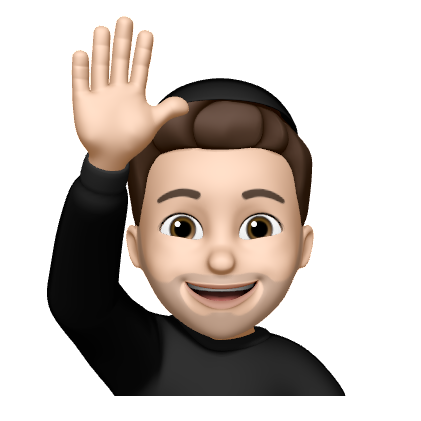
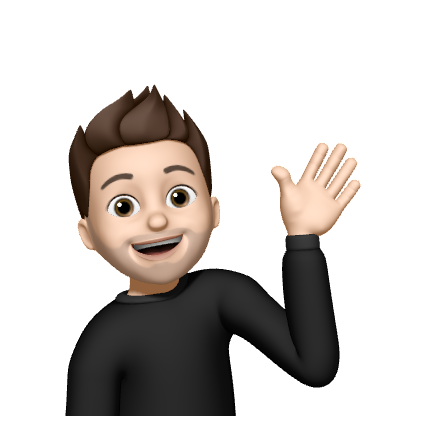
Memoji contact & js setModal

diff --git a/code/assets/scss/__home.scss b/code/assets/scss/__home.scss
@@ -24,10 +24,23 @@ html {
                             border-radius: 100%;
                             height: 250px;
                             width: 250px;
+                            align-items: center;
+                            overflow: hidden;
+                            box-shadow: inset 7px 7px 20px #3d3a5f, inset -7px -7px 20px #59568b;
+
+                            &:hover {
+                                img {
+                                    //animation: .5s animoji 1;
+                                    filter: drop-shadow(16px -30px 5px #00000040);
+                                }
+                            }
         
                             img {
-                                width: 100%;
-                                height: 100%;
+                                height: 250px;
+                                width: 250px;
+                                border-radius: 100%;
+                                filter: drop-shadow(6px -20px 5px #00000040);
+                                //transition: 300ms;
                             }
                         }
         
@@ -100,8 +113,35 @@ html {
                     }
 
                     &.contact {
-                        form {
-                            margin: 0;
+                        .form-container {
+                            display: flex;
+                            align-items: center;
+                            justify-content: center;
+                            width: 100%;
+
+                            .img-container {
+                                position: relative;
+                                margin-right: 5px;
+
+                                img {
+                                    height: 150px;
+                                    width: 150px;
+                                }
+
+                                .bar {
+                                    height: 1px;
+                                    width: 100%;
+                                    box-shadow: 0 3px 20px 1px black;
+                                    position: absolute;
+                                    bottom: 4px;
+                                    background: radial-gradient(circle, rgba(0,0,0,1) 50%, rgba(75,72,117,1) 100%);
+                                }
+                            }
+
+                            form {
+                                margin: 0;
+                                margin-left: 5px;
+                            }
                         }
                     }
                 }

diff --git a/code/assets/css/__mixin.css b/code/assets/css/__mixin.css
@@ -278,7 +278,7 @@ form .form-space-between a:hover {
 }
 
 .modal-background {
-  height: 100%;
+  min-height: 100%;
   left: 0;
   width: 100%;
   position: absolute;
@@ -560,10 +560,18 @@ html body main.home section.top-section .card {
   border-radius: 100%;
   height: 250px;
   width: 250px;
+  align-items: center;
+  overflow: hidden;
+  box-shadow: inset 7px 7px 20px #3d3a5f, inset -7px -7px 20px #59568b;
+}
+html body main.home section.top-section .card:hover img {
+  filter: drop-shadow(16px -30px 5px #00000040);
 }
 html body main.home section.top-section .card img {
-  width: 100%;
-  height: 100%;
+  height: 250px;
+  width: 250px;
+  border-radius: 100%;
+  filter: drop-shadow(6px -20px 5px #00000040);
 }
 html body main.home section.top-section h1 {
   margin-bottom: 5px;
@@ -617,8 +625,31 @@ html body main.home section.last-articles a.btn {
   display: flex;
   justify-content: center;
 }
-html body main.home section.contact form {
+html body main.home section.contact .form-container {
+  display: flex;
+  align-items: center;
+  justify-content: center;
+  width: 100%;
+}
+html body main.home section.contact .form-container .img-container {
+  position: relative;
+  margin-right: 5px;
+}
+html body main.home section.contact .form-container .img-container img {
+  height: 150px;
+  width: 150px;
+}
+html body main.home section.contact .form-container .img-container .bar {
+  height: 1px;
+  width: 100%;
+  box-shadow: 0 3px 20px 1px black;
+  position: absolute;
+  bottom: 4px;
+  background: radial-gradient(circle, black 50%, #4b4875 100%);
+}
+html body main.home section.contact .form-container form {
   margin: 0;
+  margin-left: 5px;
 }
 
 @keyframes arrowAnimation {
@@ -647,6 +678,22 @@ html body main.home section.contact form {
   100% {
     bottom: 17%;
     box-shadow: 5px 10px 35px -20px black;
+  }
+}
+@keyframes animoji {
+  0% {
+    transform: rotate(0);
+  }
+  100% {
+    transform: rotate(360deg);
+  }
+}
+@keyframes animojiReverse {
+  0% {
+    transform: rotate(360deg);
+  }
+  100% {
+    transform: rotate(0);
   }
 }
 /*@include _assert-ascending($grid-breakpoints, "$grid-breakpoints");

diff --git a/code/assets/js/app.js b/code/assets/js/app.js
@@ -2,6 +2,32 @@ $(function() {
     const apiUrl = 'http://localhost:8000';
     setLogo();
     isConnected();
+    let cardAnimationRotation = 0;
+    let startInterval;
+    let stopInterval;
+    let mainHeight = $('main').innerHeight();
+
+    $('main.home section.top-section .card').on('mouseenter', function() {
+        clearInterval(stopInterval);
+
+        startInterval = setInterval(() => {
+            if (cardAnimationRotation !== 360) {
+                cardAnimationRotation += 4;
+                $('main.home section.top-section .card img').css('transform', 'rotate(' + cardAnimationRotation + 'deg)');
+            }
+        });
+    });
+
+    $('main.home section.top-section .card').on('mouseleave', function() {
+        clearInterval(startInterval);
+
+        stopInterval = setInterval(() => {
+            if (cardAnimationRotation !== 0) {
+                cardAnimationRotation -= 4;
+                $('main.home section.top-section .card img').css('transform', 'rotate(' + cardAnimationRotation + 'deg)');
+            }
+        });
+    });
 
     function isConnected() {
         $.ajax({
@@ -443,6 +469,11 @@ $(function() {
         }
     //
     
+    function setModalHeight() {
+        $('.modal-background').css('height', mainHeight);
+        $('.modal-background').css('padding-top', $(window).scrollTop());
+    }
+
     function closeModal() {
         $('.modal').removeClass('is-active');
 
@@ -465,6 +496,7 @@ $(function() {
         });
 
         setTimeout(function() {
+            setModalHeight();
             $('.modal').addClass('is-active');
         }, 250);
     }
@@ -482,6 +514,7 @@ $(function() {
         });
 
         setTimeout(function() {
+            setModalHeight();
             $('.modal').addClass('is-active');
         }, 250);
     }
@@ -499,6 +532,7 @@ $(function() {
         });
 
         setTimeout(function() {
+            setModalHeight();
             $('.modal').addClass('is-active');
         }, 250);
     }

diff --git a/code/assets/scss/__keyframes.scss b/code/assets/scss/__keyframes.scss
@@ -35,3 +35,23 @@
         box-shadow: 5px 10px 35px -20px black;
     }
 }
+
+@keyframes animoji {
+    0% {
+        transform: rotate(0);
+    }
+
+    100% {
+        transform: rotate(360deg);
+    }
+}
+
+@keyframes animojiReverse {
+    0% {
+        transform: rotate(360deg);
+    }
+
+    100% {
+        transform: rotate(0);
+    }
+}

diff --git a/code/assets/scss/__modal.scss b/code/assets/scss/__modal.scss
@@ -1,5 +1,5 @@
 .modal-background {
-    height: 100%;
+    min-height: 100%;
     left: 0;
     width: 100%;
     position: absolute;

diff --git a/code/src/View/index.php b/code/src/View/index.php
@@ -65,7 +65,13 @@
             </section>
             <section class="contact">
                 <h2>Contact</h2>
-                <?php include('assets/inc/contact.php'); ?>
+                <div class="form-container">
+                    <div class="img-container">
+                        <img src="../../assets/img/memoji-love.png" loading="lazy" alt="Memoji love">
+                        <div class="bar"></div>
+                    </div>
+                    <?php include('assets/inc/contact.php'); ?>
+                </div>
             </section>
         </main>
     </body>

diff --git a/code/assets/inc/header-tags.php b/code/assets/inc/header-tags.php
@@ -10,5 +10,4 @@
 <!-- JS -->
 <script src="https://code.jquery.com/jquery-3.6.0.min.js" integrity="sha256-/xUj+3OJU5yExlq6GSYGSHk7tPXikynS7ogEvDej/m4=" crossorigin="anonymous"></script>
 <script src="assets/js/app.js?version=1.0.0"></script>
-<script src="assets/js/particles.min.js"></script>
 <script src="https://use.fontawesome.com/releases/v5.11.2/js/all.js" data-auto-replace-svg="nest"></script>
